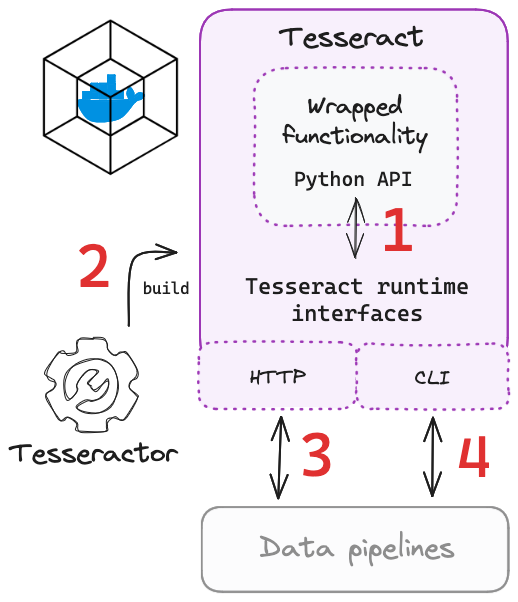
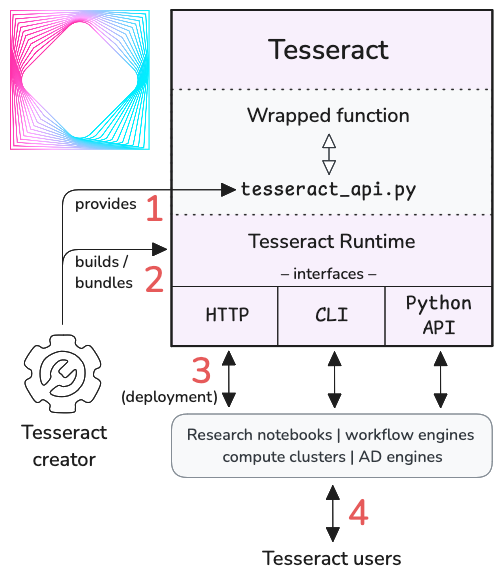
doc: updated diagram on tesseract interfaces (#150)
#### Relevant issue or PR
n/a

#### Description of changes
See diff

#### Testing done
none

#### License

- [x] By submitting this pull request, I confirm that my contribution is
made under the terms of the [Apache 2.0
license](https://pasteurlabs.github.io/tesseract/LICENSE).
- [x] I sign the Developer Certificate of Origin below by adding my name
and email address to the `Signed-off-by` line.

<details>
<summary><b>Developer Certificate of Origin</b></summary>

```text
Developer Certificate of Origin
Version 1.1

Copyright (C) 2004, 2006 The Linux Foundation and its contributors.

Everyone is permitted to copy and distribute verbatim copies of this
license document, but changing it is not allowed.

Developer's Certificate of Origin 1.1

By making a contribution to this project, I certify that:

(a) The contribution was created in whole or in part by me and I
    have the right to submit it under the open source license
    indicated in the file; or

(b) The contribution is based upon previous work that, to the best
    of my knowledge, is covered under an appropriate open source
    license and I have the right under that license to submit that
    work with modifications, whether created in whole or in part
    by me, under the same open source license (unless I am
    permitted to submit under a different license), as indicated
    in the file; or

(c) The contribution was provided directly to me by some other
[…]

diff --git a/docs/index.md b/docs/index.md
@@ -16,20 +16,20 @@ Tesseracts provide built-in support for propagating [gradient information](conte
 
 ```{figure} img/tesseract-interfaces.png
 :alt: Tesseract interfaces
-:width: 220px
+:width: 250px
 :align: right
 
-<small>Internal and external user interfaces.</small>
+<small>Internal and external interfaces of a Tesseract.</small>
 ```
 
 Every Tesseract has a single entrypoint, `apply`, which wraps a software functionality of the tesseractor's choice. All other [endpoints](content/api/endpoints.md) that a Tesseract exposes are in relation to this entrypoint. For example, `input_schema` returns its input types, `jacobian` its derivative, ...
 
-There are several ways users might interact with Tesseracts:
+There are several ways in which users interact with Tesseracts, for example:
 
 1. When defining entrypoints - `tesseract_api.py`.
 2. When building a container – `tesseract build`.
-3. Invocation via HTTP - `tesseract serve`.
-4. Invocation via the command line - `tesseract run`.
+3. Exposing functionality via HTTP - `tesseract serve`.
+4. Invocation via the command line or HTTP - `tesseract run` + [Python API](content/api/tesseract-api.md).
 
 ## Features and restrictions
 
